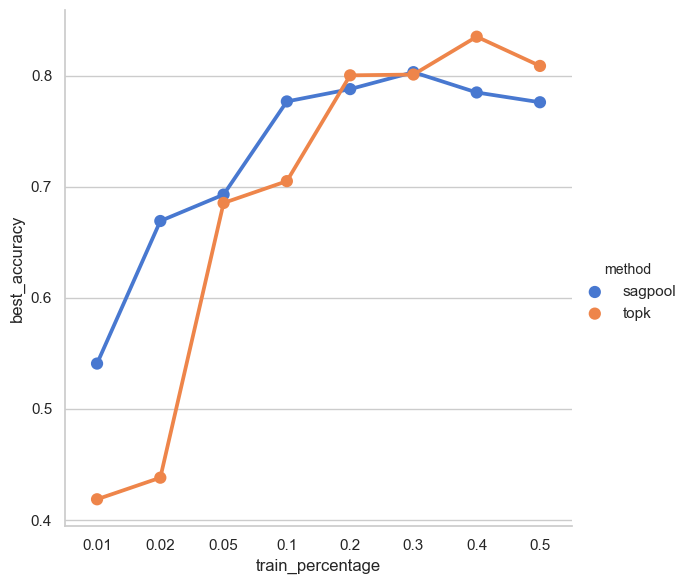
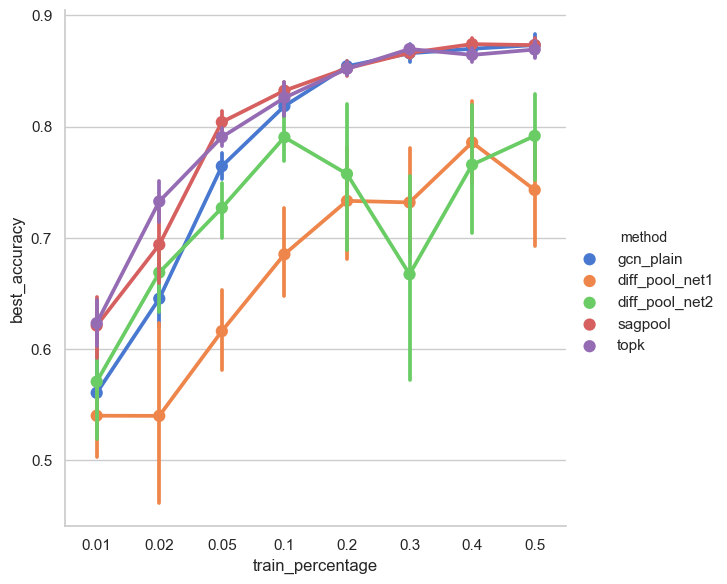
Final plot for varying training percentage

diff --git a/experiments/varying_training_percentage/plot.py b/experiments/varying_training_percentage/plot.py
@@ -1,0 +1,78 @@
+import os
+import os.path as osp
+import sys
+import warnings
+from datetime import datetime
+import json
+import csv
+import time
+import random
+import re
+
+import pandas as pd
+import numpy as np
+import seaborn as sns
+
+
+#w = csv.writer(open("results.csv", "w"))
+#for key, val in train_percentage_dict.items():
+#    w.writerow([key, val])
+#print("All done")
+
+train_percentage_dict = {   'method': [],
+                            'train_percentage': [],
+                            'best_accuracy': []}
+
+with open('results.csv', mode='r') as infile:
+    reader = csv.reader(infile)
+    line = 0
+    for row in reader:
+        if line==0:
+            print(row[1])
+            for char in row[1]:
+                if char in " []\'":
+                    row[1] = row[1].replace(char,'')
+            print("\n\n")
+            print(row[1])
+            list = row[1].split(",")
+            print(list)
+            for model_this in list:
+                train_percentage_dict['method'].append(model_this)
+        elif line==1:
+            print(row[1])
+            for char in row[1]:
+                if char in " []\'":
+                    row[1] = row[1].replace(char,'')
+            print("\n\n")
+            print(row[1])
+            list = row[1].split(",")
+            print(list)
+            for test_acc in list:
+                train_percentage_dict['train_percentage'].append(float(test_acc))
+        else:
+            print(row[1])
+            for char in row[1]:
+                if char in " []\'":
+                    row[1] = row[1].replace(char,'')
+            print("\n\n")
+            print(row[1])
+            list = row[1].split(",")
+            print(list)
+            for training_fraction in list:
+                train_percentage_dict['best_accuracy'].append(float(training_fraction))
+        line+=1
+        
+print(train_percentage_dict['method'])
+print(train_percentage_dict['best_accuracy'])
+print(train_percentage_dict['train_percentage'])
+
+print("Restored train_percentage_dict")
+
+train_percentage_df = pd.DataFrame(data=train_percentage_dict)
+
+# plot
+sns.set(style="whitegrid")
+
+                
+plot = sns.catplot(x="train_percentage", y="best_accuracy", hue="method", data=train_percentage_df, height=6, kind="point", palette="muted")
+plot.savefig("percentage_plot.png")
